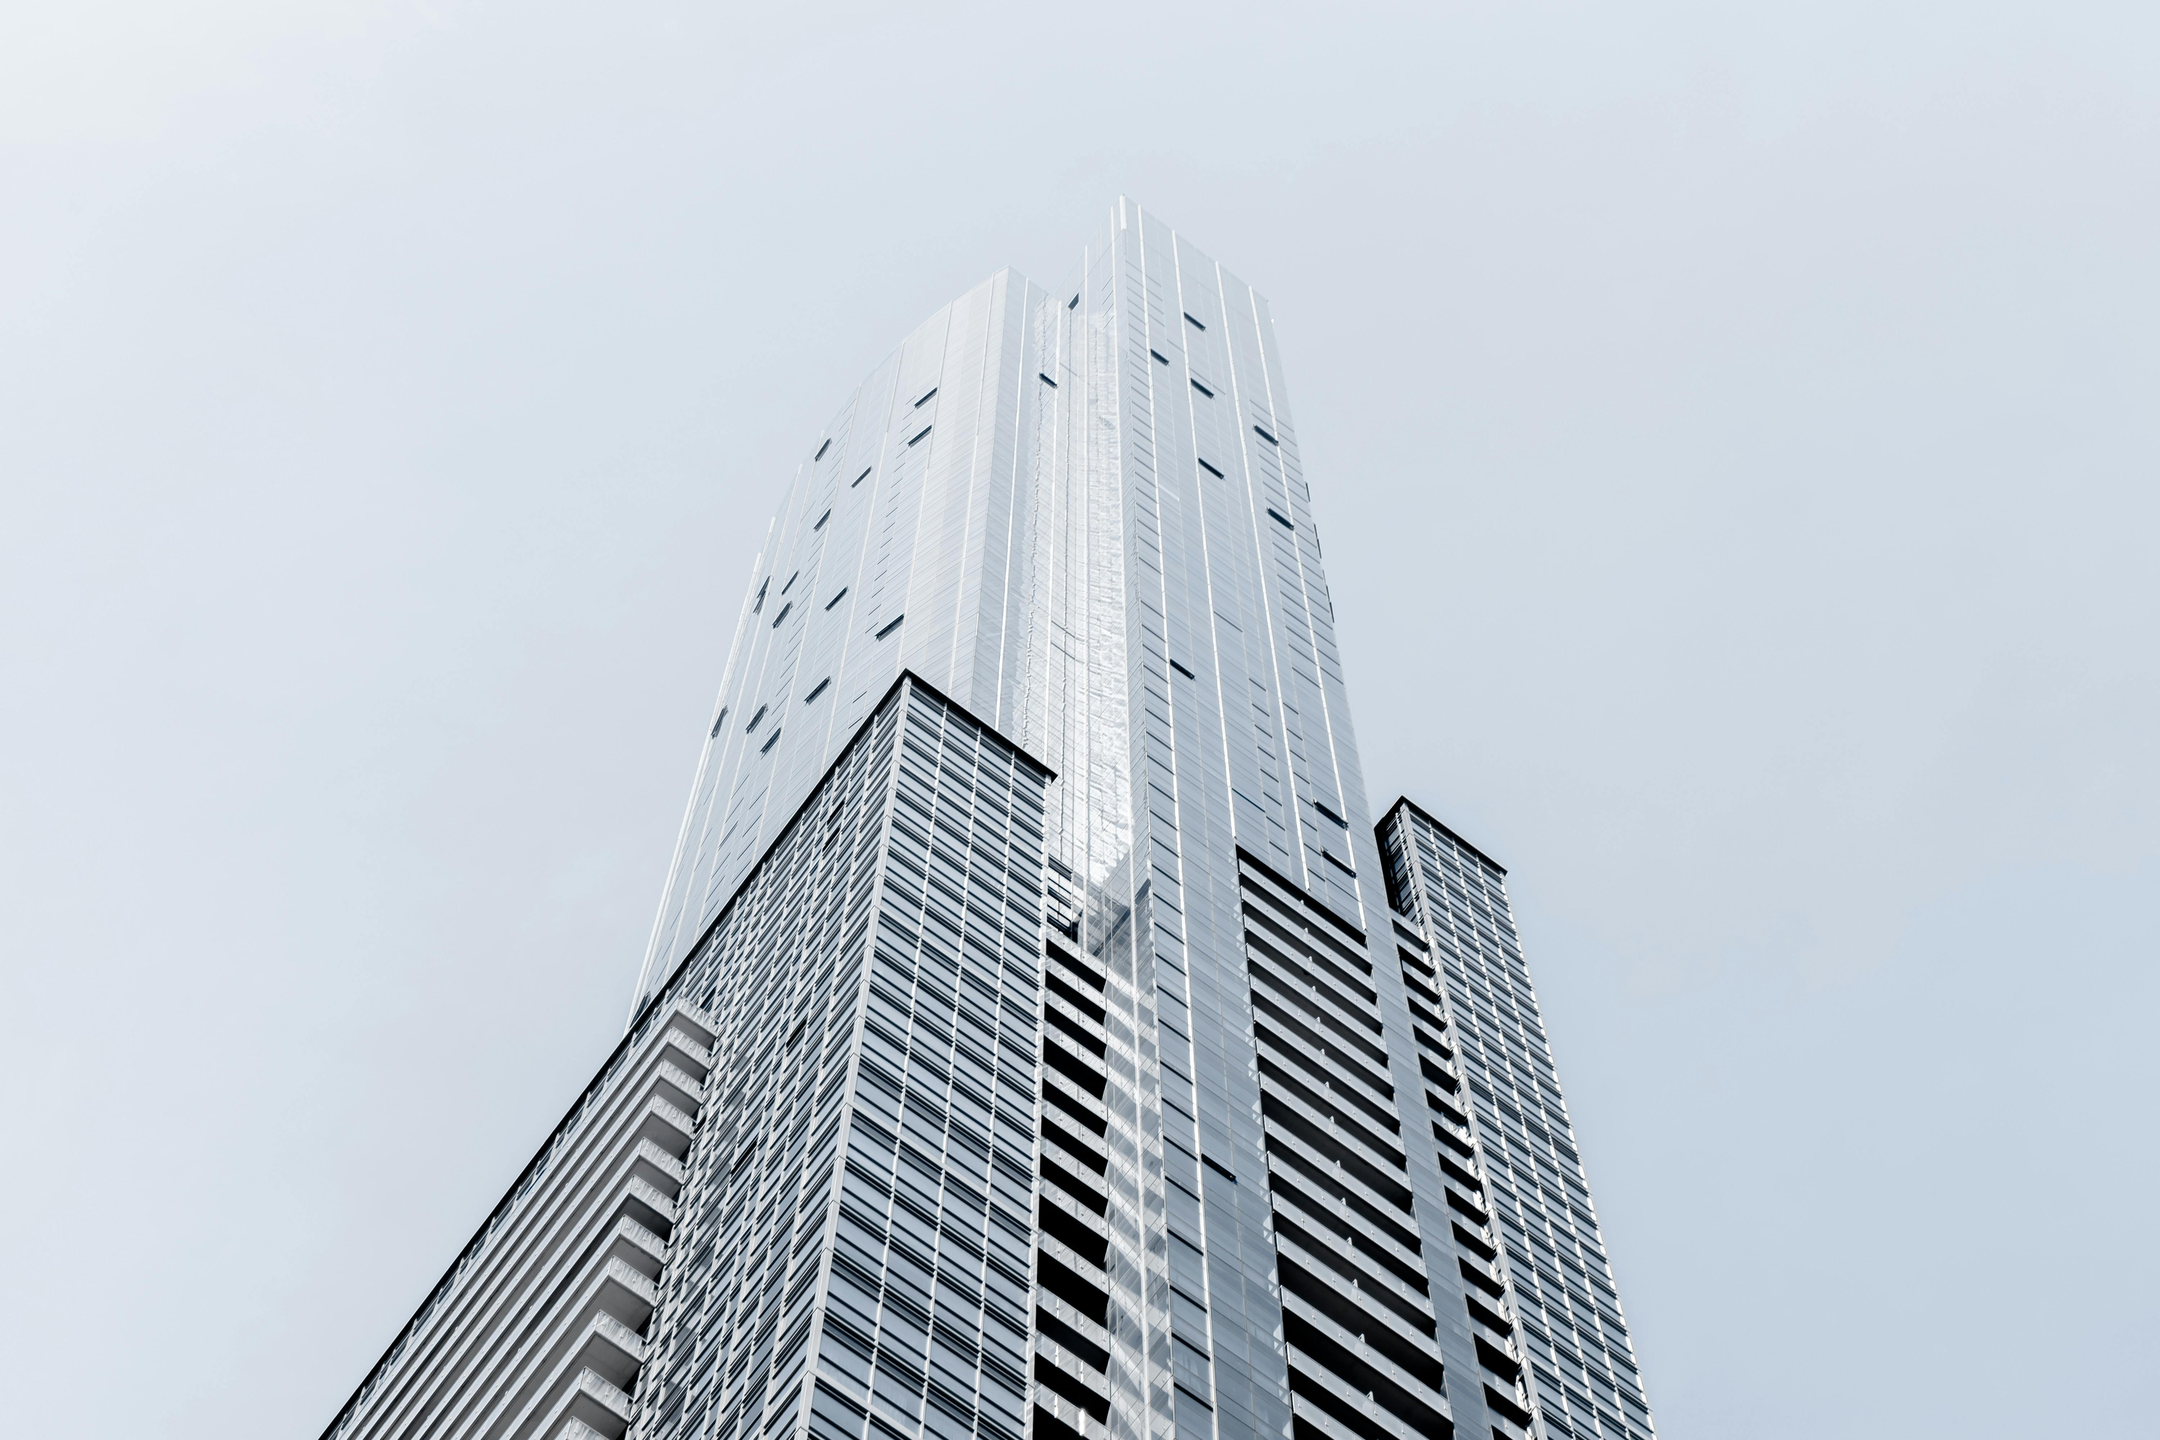
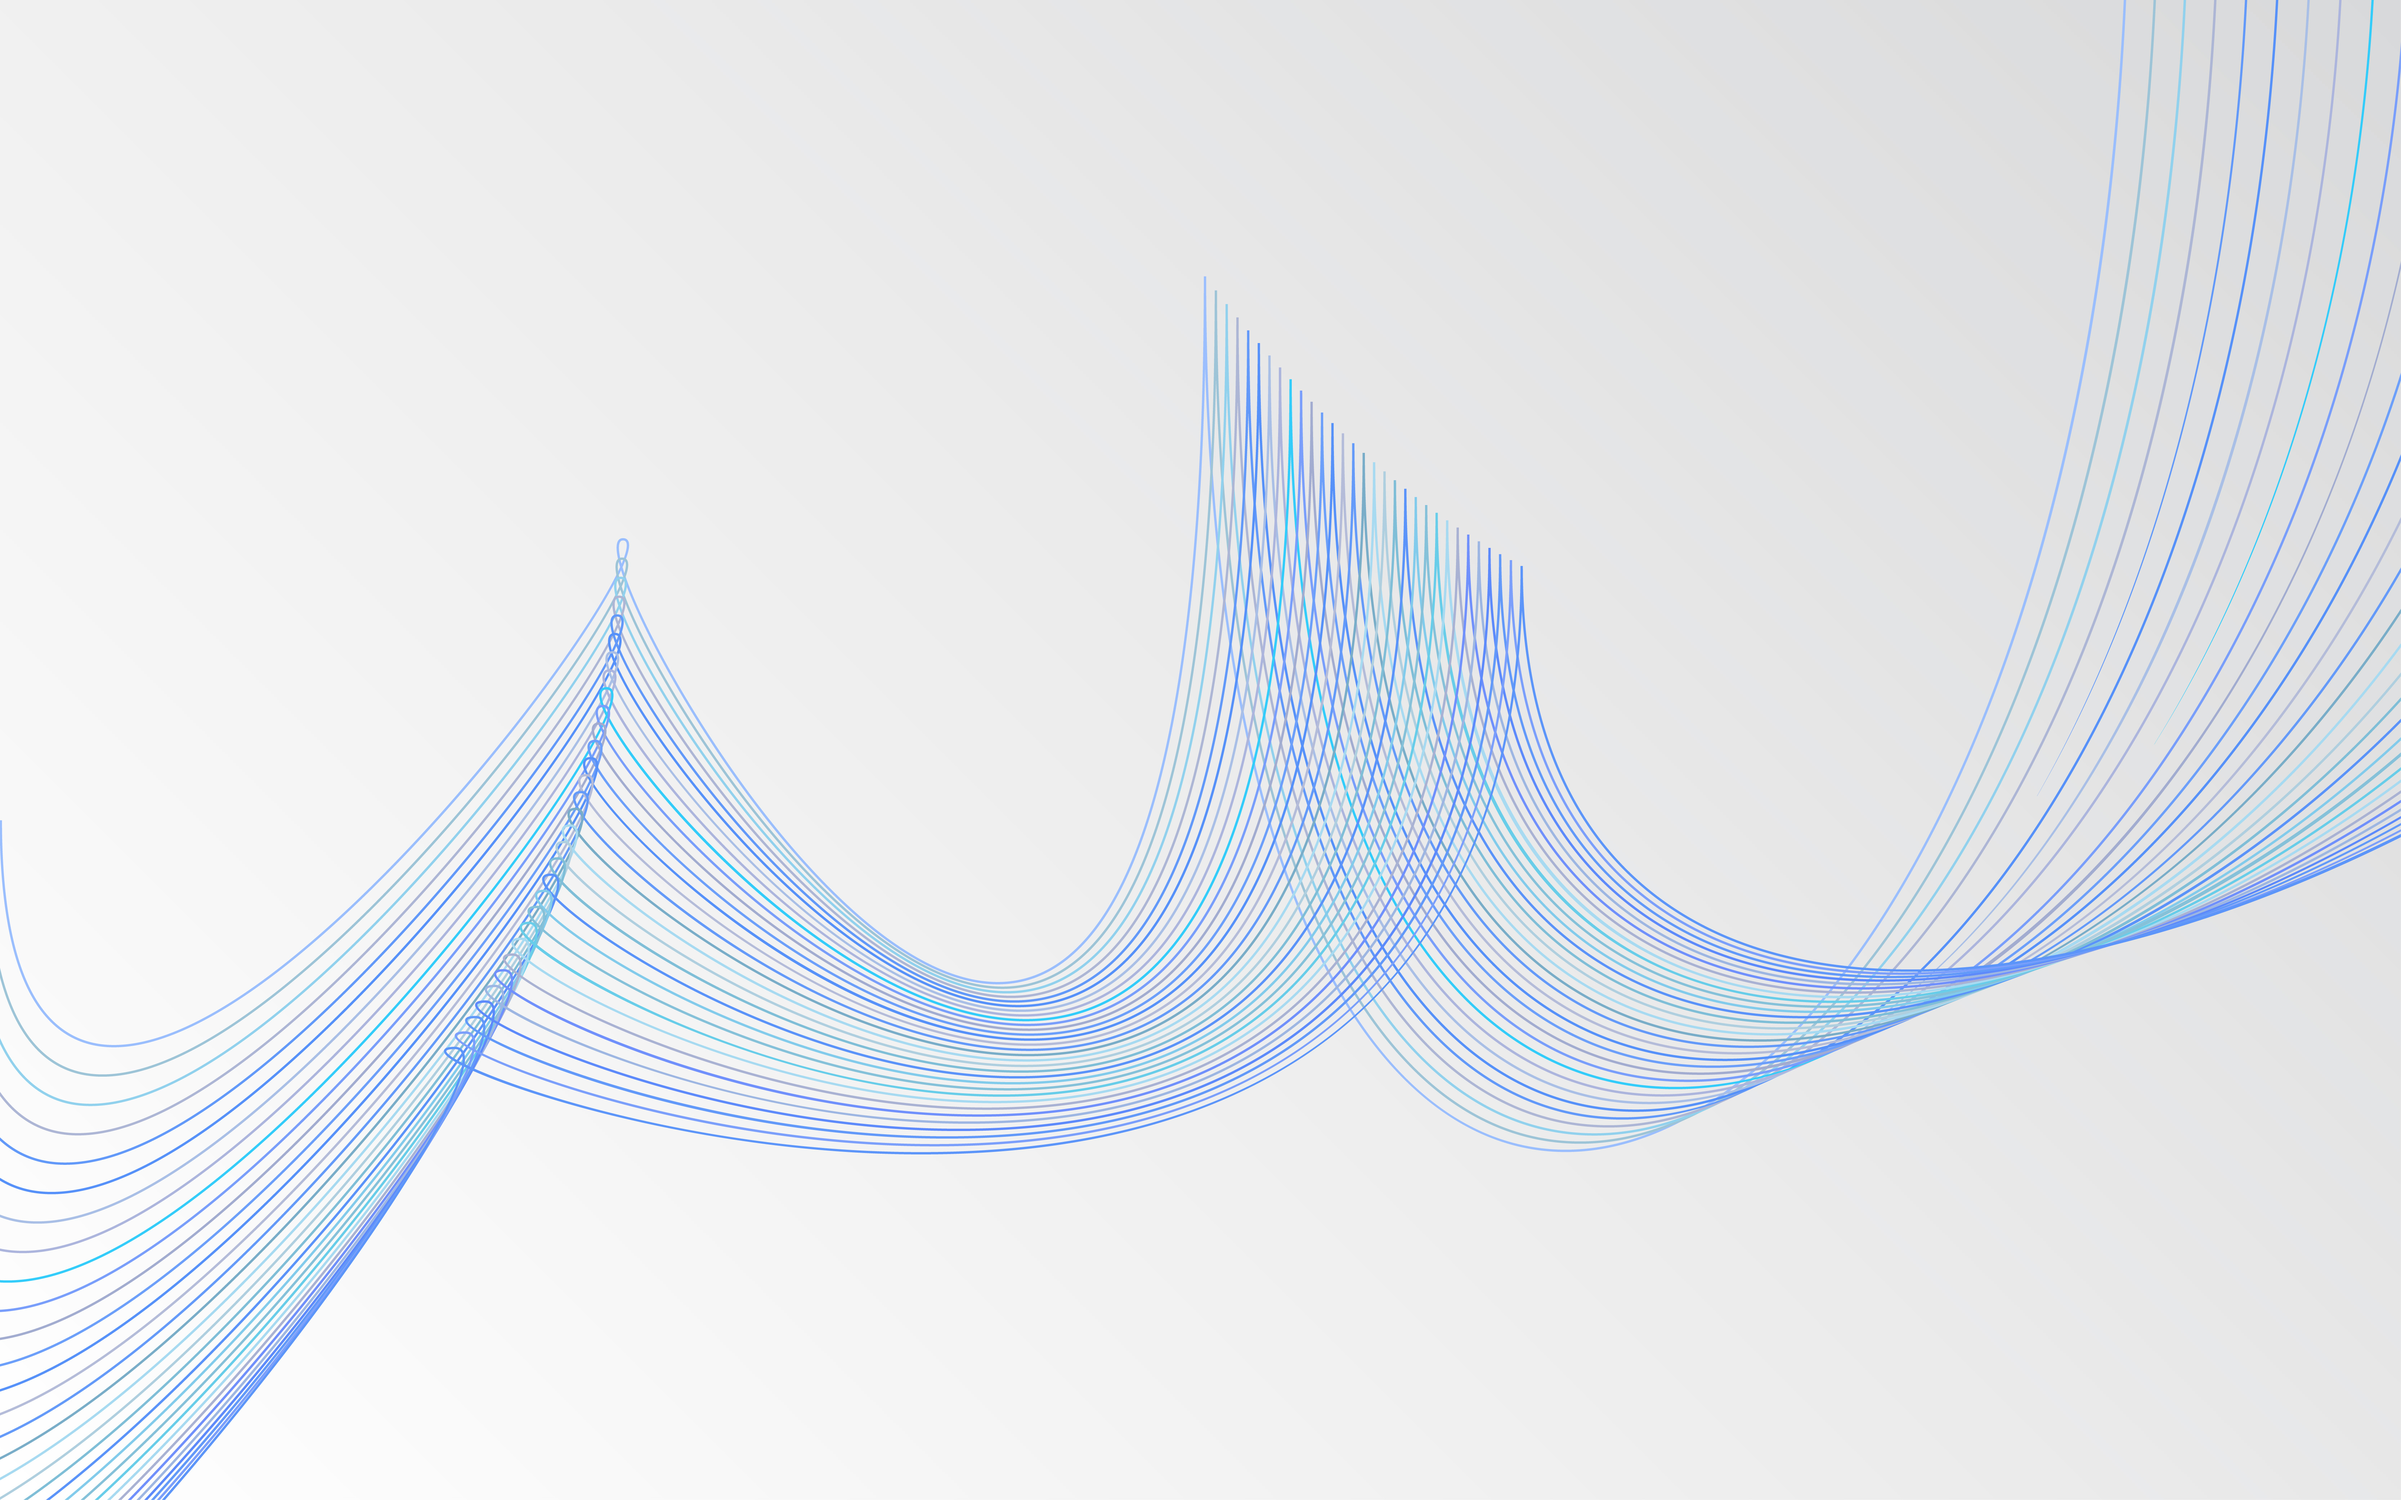
Website: Change bachground image.

diff --git a/_sass/custom/_theme-toggle.scss b/_sass/custom/_theme-toggle.scss
@@ -69,7 +69,7 @@
   /* --- Dark theme: footer + author social links --- */
   .page__footer .social-icons a,
   .author__urls a {
-    color: #80cbc4 !important; // text inside links
+    color: #80cbc4 !important;
   }
 
   .page__footer .social-icons a:hover,
@@ -79,7 +79,7 @@
 
   .page__footer .social-icons a i,
   .author__urls a i {
-    color: #80cbc4 !important; // icons
+    color: #80cbc4 !important;
   }
 
   .page__footer .social-icons a:hover i,
@@ -88,19 +88,20 @@
   }
 
   .author__urls .label {
-    color: #e6e6e6 !important; // labels beside icons
+    color: #e6e6e6 !important;
   }
 }
 
 // Light theme
 [data-theme="light"] {
   body {
+    /* Light theme: more gray and more transparent */
     background:
       linear-gradient(
         180deg,
-        rgba(245, 251, 255, 0.75) 0%,
-        rgba(255, 255, 255, 0.80) 40%,
-        rgba(247, 247, 255, 0.85) 100%
+        rgba(235, 241, 247, 0.78) 0%,
+        rgba(240, 244, 250, 0.80) 40%,
+        rgba(232, 236, 246, 0.82) 100%
       ),
       url('/assets/images/background_white.jpg') center top / cover fixed no-repeat;
     background-attachment: fixed;
@@ -108,19 +109,19 @@
     color: #222222;
   }
 
-  /* Outer light glass card — slightly grayer + more transparent */
+  /* Outer light glass card */
   .page {
-    background: rgba(255, 255, 255, 0.55); /* was 0.7 */
-    box-shadow: 0 20px 60px rgba(0, 0, 0, 0.14); /* softer */
+    background: rgba(240, 240, 245, 0.30); /* more gray + more transparent */
+    box-shadow: 0 28px 80px rgba(0, 0, 0, 0.18);
     backdrop-filter: blur(18px);
     border-radius: 16px;
   }
 
-  /* Inner content box — cooler gray and more transparent */
+  /* Inner light gray content box */
   .page__content {
-    background-color: rgba(220, 220, 230, 0.45); /* grayer + more transparent */
+    background-color: rgba(230, 240, 255, 0.40);
     color: #222222;
-    backdrop-filter: blur(14px);
+    backdrop-filter: blur(12px);
     border-radius: 12px;
   }
 
@@ -139,11 +140,13 @@
     color: #222222;
   }
 
+  /* ensure footer non-links are dark */
   .page__footer,
   .page__footer *:not(a) {
     color: #222222 !important;
   }
 
+  /* footer + author social links */
   .page__footer .social-icons a,
   .author__urls a {
     color: #222222 !important;
@@ -205,7 +208,6 @@
   cursor: pointer;
 }
 
-/* Size the icon inside the button */
 #theme-toggle [data-theme-icon] {
   display: inline-flex;
   width: 0.9rem;
@@ -216,6 +218,64 @@
 #theme-toggle [data-theme-icon] svg {
   width: 0.9rem;
   height: 0.9rem;
+}
+
+/* ===============================
+   Back-to-top button (theme-aware, styled)
+   =============================== */
+
+/* Center the wrapper inside the content card */
+.back-to-top {
+  text-align: center !important;
+  margin-top: 2rem;
+  margin-bottom: 1.5rem;
+}
+
+/* Smaller pill-shaped button */
+#back-to-top {
+  display: inline-block;
+  padding: 0.4rem 1rem;
+  border-radius: 1.5rem;
+  font-size: 0.75rem;
+  font-weight: 600;
+  line-height: 1.1;
+  text-decoration: none;
+  border: none;
+  transition: background-color 0.2s ease, color 0.2s ease;
+  box-shadow: 0 2px 6px rgba(0, 0, 0, 0.20);
+}
+
+/* Light theme colors */
+[data-theme="light"] #back-to-top {
+  background: #0066cc;
+  color: #ffffff;
+}
+
+[data-theme="light"] #back-to-top:hover,
+[data-theme="light"] #back-to-top:focus {
+  background: #004c99;
+}
+
+/* Dark theme colors */
+[data-theme="dark"] #back-to-top {
+  background: #80cbc4;
+  color: #0b0b0b;
+}
+
+[data-theme="dark"] #back-to-top:hover,
+[data-theme="dark"] #back-to-top:focus {
+  background: #4db6ac;
+  color: #ffffff;
+}
+
+/* Focus outline for accessibility */
+#back-to-top:focus {
+  outline: none;
+  box-shadow: 0 0 0 3px rgba(0, 102, 204, 0.35);
+}
+
+[data-theme="dark"] #back-to-top:focus {
+  box-shadow: 0 0 0 3px rgba(128, 203, 196, 0.35);
 }
 
 /* ===============================
@@ -239,7 +299,10 @@
   border: 1px solid transparent;
   background: transparent;
   cursor: pointer;
-  transition: background-color 0.2s ease, color 0.2s ease, box-shadow 0.2s ease, border-color 0.2s ease;
+  transition: background-color 0.2s ease,
+              color 0.2s ease,
+              box-shadow 0.2s ease,
+              border-color 0.2s ease;
   box-shadow: 0 2px 4px rgba(0, 0, 0, 0.06);
 }
 
@@ -250,12 +313,7 @@
 }
 
 [data-theme="light"] .sort-btn:hover,
-[data-theme="light"] .sort-btn:focus {
-  color: #fff;
-  background: #0066cc;
-  border-color: #004c99;
-}
-
+[data-theme="light"] .sort-btn:focus,
 [data-theme="light"] .sort-btn.active {
   color: #fff;
   background: #0066cc;
@@ -266,16 +324,11 @@
 [data-theme="dark"] .sort-btn {
   color: #e6e6e6;
   border-color: #80cbc4;
-  background: #121212; /* subtle filled look to match dark surfaces */
+  background: #121212; /* subtle filled look */
 }
 
 [data-theme="dark"] .sort-btn:hover,
-[data-theme="dark"] .sort-btn:focus {
-  color: #0b0b0b;
-  background: #80cbc4;
-  border-color: #4db6ac;
-}
-
+[data-theme="dark"] .sort-btn:focus,
 [data-theme="dark"] .sort-btn.active {
   color: #0b0b0b;
   background: #80cbc4;
@@ -293,55 +346,6 @@
 }
 
 /* ===============================
-   Back-to-top button (theme-aware)
-   =============================== */
-
-/* Wrapper inside page__content */
-.back-to-top {
-  text-align: center !important;
-  margin-top: 2rem;
-  margin-bottom: 1rem;
-}
-
-/* Base button */
-#back-to-top {
-  display: inline-block;
-  padding: 0.4rem 1rem;
-  border-radius: 1.5rem;   /* pill shape */
-  font-size: 0.75rem;      /* small, elegant font */
-  font-weight: 600;
-  line-height: 1.1;
-  text-decoration: none;
-  border: none;
-  cursor: pointer;
-  transition: background-color .2s ease, color .2s ease;
-
-  /* Subtle glass-like shadow */
-  box-shadow: 0 2px 6px rgba(0,0,0,0.20);
-}
-
-/* --- Light Theme --- */
-[data-theme="light"] #back-to-top {
-  background: #0066cc;
-  color: #ffffff;
-}
-
-[data-theme="light"] #back-to-top:hover {
-  background: #004c99;
-}
-
-/* --- Dark Theme --- */
-[data-theme="dark"] #back-to-top {
-  background: #80cbc4;
-  color: #0b0b0b;
-}
-
-[data-theme="dark"] #back-to-top:hover {
-  background: #4db6ac;
-  color: #ffffff;
-}
-
-/* ===============================
    Utility: Reduced Font
    =============================== */
 .reduced-font {
@@ -354,10 +358,10 @@ h1 {
 }
 
 .reduced-font hr {
-  margin-top: 0.5rem;   /* keep line close to the post above */
-  margin-bottom: 2cm;   /* extra space before the next post */
+  margin-top: 0.5rem;
+  margin-bottom: 2cm;
   border: 0;
-  border-top: 1px solid #ccc; /* thin separator */
+  border-top: 1px solid #ccc;
 }
 
 /* Remove bottom spacing from the last hr */

diff --git a/assets/css/main.scss b/assets/css/main.scss
@@ -8,9 +8,8 @@ search: false
 @import "minimal-mistakes/skins/{{ site.minimal_mistakes_skin | default: 'default' }}"; // skin
 @import "minimal-mistakes"; // main partials
 
-/* Your dark/light mode + glass overrides */
+/* Your dark/light mode + glass + buttons */
 @import "custom/theme-toggle";
-
 
 /* ===============================
    Global link styling (base)
@@ -23,7 +22,7 @@ a {
 }
 
 a:hover {
-  color: white;
+  color: #ffffff;
   background-color: #0092ca;
   padding: 2px 4px;
   border-radius: 3px;
@@ -36,41 +35,30 @@ a:hover {
   text-decoration: underline;
 }
 
-/* ===============================
-   Remove the white band under the header
-   =============================== */
+/* =========================================
+   Layout tweaks: remove band under header
+   ========================================= */
 
-.initial-content {
-  background: transparent !important; /* remove white layer */
-  padding-top: 0 !important;
-  margin-top: 0 !important;
-}
-
-/* Make wrapper transparent so body background shows through */
+/* Let the body background show, no extra layer */
+.initial-content,
 .wrapper {
   background: transparent !important;
-}
-
-/* Remove extra space below the masthead/header */
-.masthead,
-.site-header {
-  margin-bottom: 0 !important;
-}
-
-/* Create the desired gap with the card itself */
-.page {
-  margin-top: 1.5cm !important;  /* spacing between header and card */
   padding-top: 0 !important;
-}
-
-/* Remove divider spacing if any */
-.page__title,
-.page__meta {
   margin-top: 0 !important;
+}
+
+/* Kill the vertical gap that Minimal Mistakes adds */
+.page {
+  margin-top: 1.5cm !important;     /* no band between masthead and card */
   padding-top: 0 !important;
 }
 
-/* Add inside margins to content box */
+/* Default theme gives this a margin-top: 1em – remove it */
+.page__inner-wrap {
+  margin-top: 0 !important;
+}
+
+/* Keep a nice padding *inside* the card instead of outside spacing */
 .page__content {
-  padding: 2rem 2.5rem !important; /* top/bottom, left/right */
+  padding: 2rem 2.5rem !important;  /* top/bottom, left/right */
 }
